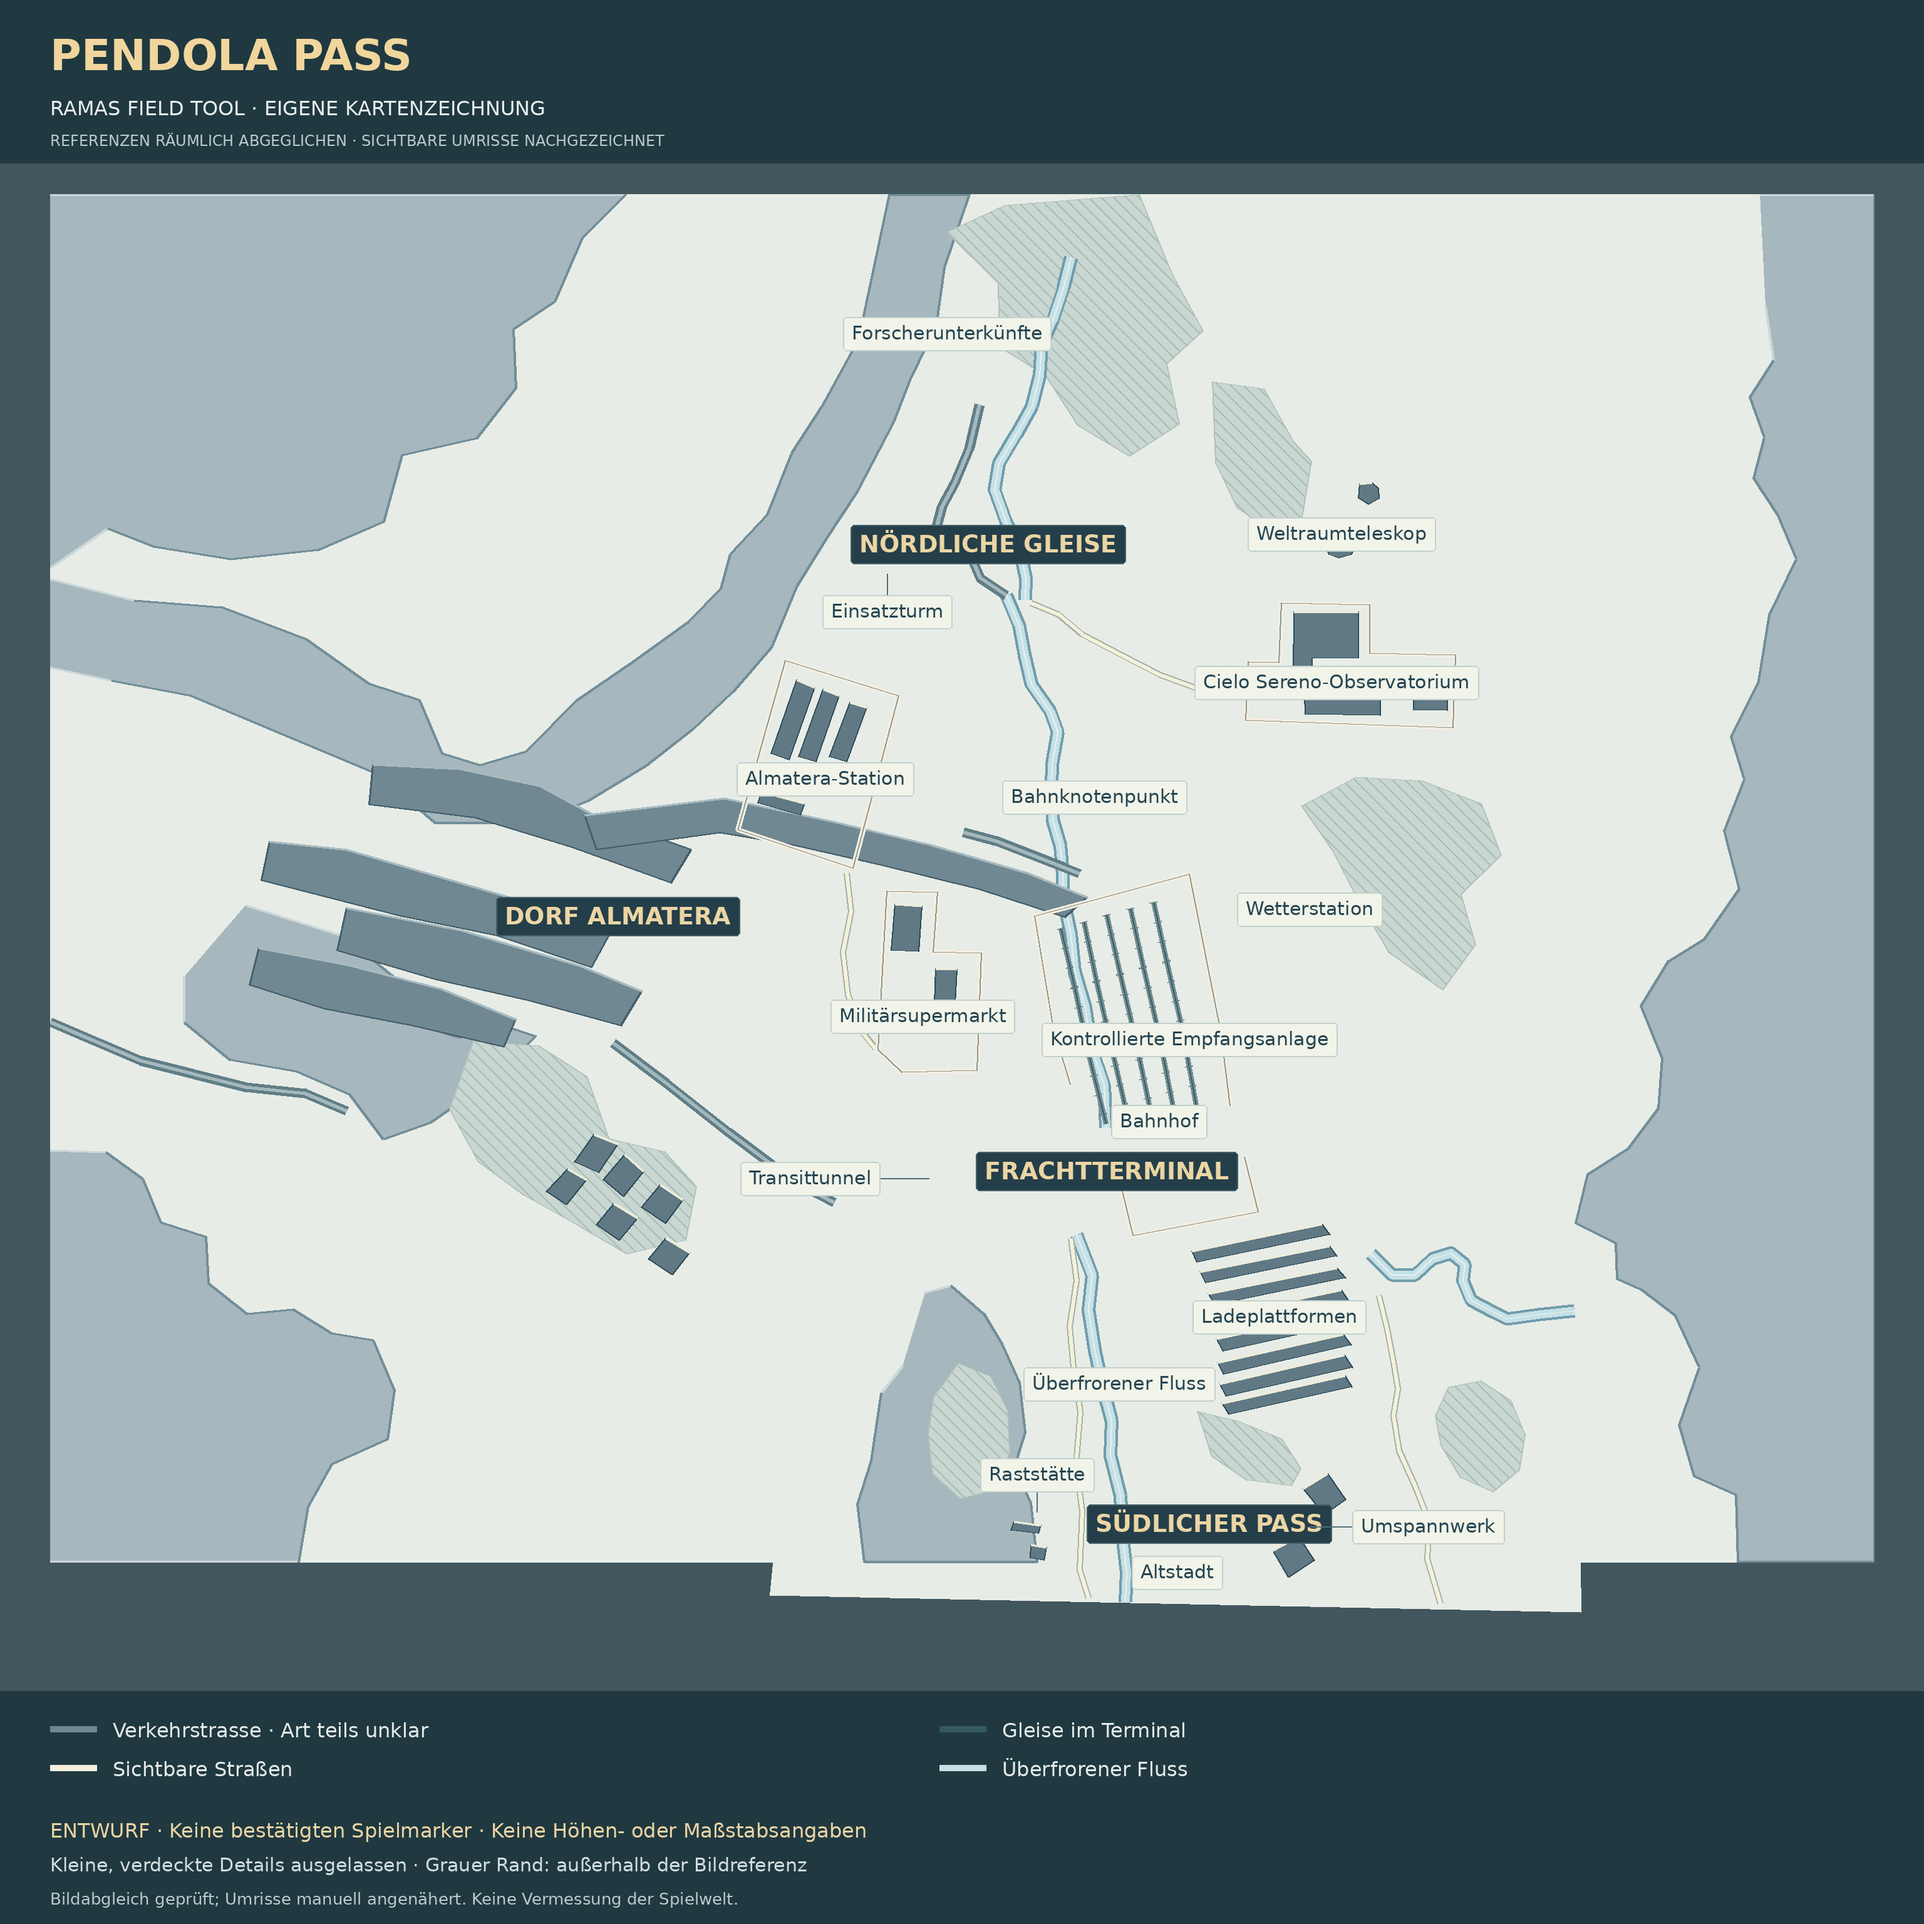
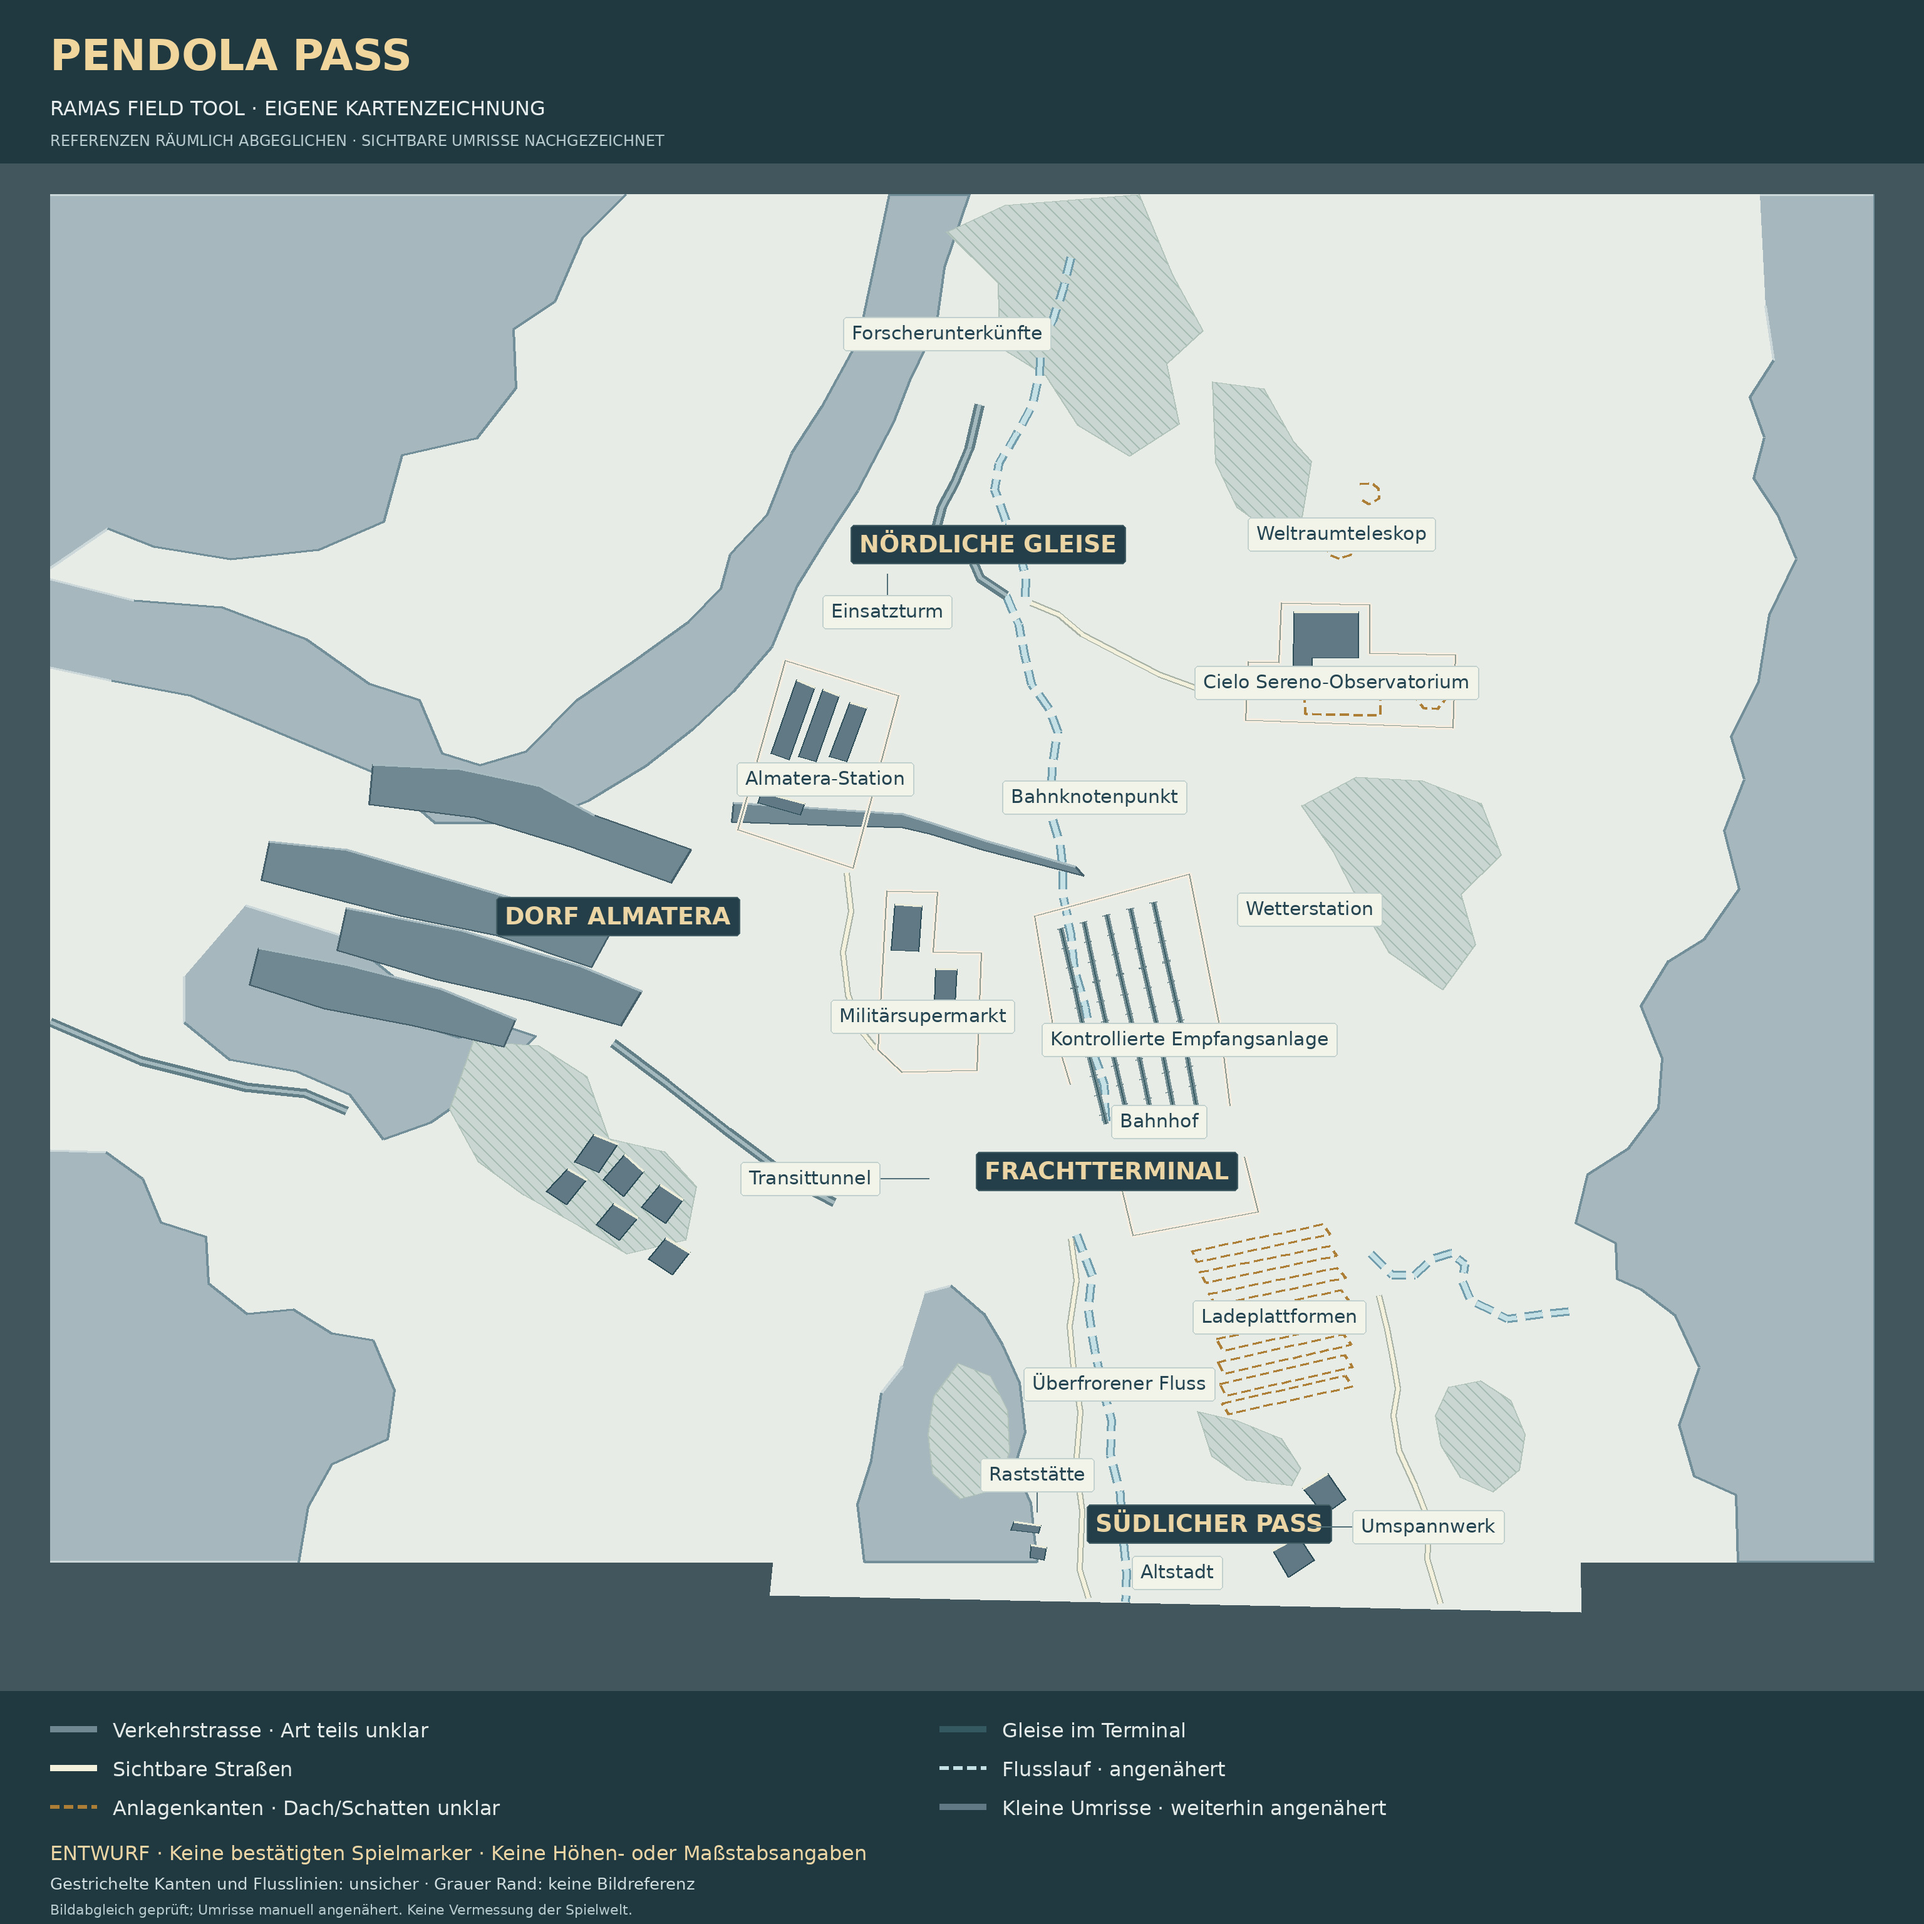
Audit Pendola bridge geometry and withdraw unverified roof classifications

diff --git a/scripts/render-pendola-pass.py b/scripts/render-pendola-pass.py
@@ -21,6 +21,15 @@ def project(frame,p):
 def screen(p):return ((OX+p[0]*SCALE)*S,(OY+p[1]*SCALE)*S)
 def points(frame,vertices):return [screen(project(frame,p)) for p in vertices]
 def path(p,color,width):d.line(p,fill=color,width=max(1,int(width*S)),joint='curve')
+def dashed(p,color,width=1.4,dash=9,gap=5):
+    phase=0.0;period=(dash+gap)*S
+    for a,b in zip(p,p[1:]):
+        dx,dy=b[0]-a[0],b[1]-a[1];length=math.hypot(dx,dy);offset=0.0
+        if length<1e-8:continue
+        while offset<length:
+            pos=phase%period;step=min(length-offset,(dash*S-pos) if pos<dash*S else (period-pos))
+            if pos<dash*S:path([(a[0]+dx*offset/length,a[1]+dy*offset/length),(a[0]+dx*(offset+step)/length,a[1]+dy*(offset+step)/length)],color,width)
+            offset+=step;phase+=step
 # Known image coverage, not an invented playable perimeter. The southern reference
 # reaches below the overview only in its central/eastern observed strip.
 coverage=Image.new('L',im.size);cd=ImageDraw.Draw(coverage)
@@ -42,7 +51,7 @@ for f in data['features']:
         if not(0<=x<=frame['imageSize'][0] and 0<=y<=frame['usableMaxY']):raise ValueError('Outside usable reference: '+f['id'])
 # Broad terrain/stands are area traces. Hatching is a drawing convention, not
 # individual tree/rock positions, altitude contours or additional game data.
-for kind in ['terrain','forest','water','transport-deck','transport-line','road','rail','compound','building']:
+for kind in ['terrain','forest','water','transport-deck','transport-line','road','rail','compound','building','structure-band','facility-outline']:
  for f in data['features']:
     if f['kind']!=kind:continue
     p=points(f['frame'],f['vertices'])
@@ -50,7 +59,7 @@ for kind in ['terrain','forest','water','transport-deck','transport-line','road'
         d.polygon(p,fill='#a6b7bd');path(p,'#cbd7d8',2);path(p[1:-1],'#718e99',2)
     elif kind=='forest':hatch_polygon(p,'#c9d6d1','#a7bdb4',10);path(p+[p[0]],'#b0c2b9',1)
     elif kind=='water':
-        path(p,'#719cab',11);path(p,'#c5e1e5',7);path(p,'#e7f2f0',1)
+        dashed(p,'#719cab',7,14,7);dashed(p,'#c5e1e5',4,14,7)
     elif kind=='transport-deck':
         d.polygon(p,fill='#708891');path(p+[p[0]],'#445f69',1.5);path(p[:max(2,len(p)//2)],'#a6bac0',2)
     elif kind=='transport-line':path(p,'#617e87',8);path(p,'#a3b9bd',3)
@@ -63,6 +72,8 @@ for kind in ['terrain','forest','water','transport-deck','transport-line','road'
                 q=j/length;x=a[0]+q*dx;y=a[1]+q*dy
                 path([(x-dy/length*3*S,y+dx/length*3*S),(x+dy/length*3*S,y-dx/length*3*S)],'#5e7980',1)
     elif kind=='compound':path(p,'#f5eee0',4);path(p,'#8b9990',1)
+    elif kind=='structure-band':dashed(p+[p[0]],'#ad7e35',2.2,7,4)
+    elif kind=='facility-outline':dashed(p,'#ad7e35',2.2,7,4)
     elif kind=='building':
         d.polygon(p,fill='#617984');path(p+[p[0]],'#2c4c58',1.2);path(p[:2],'#ececda',2)
 # Reapply coverage: nothing inferred outside the photographed reference extent.
@@ -104,13 +115,15 @@ d.text((40*S,24*S),'PENDOLA PASS',font=ImageFont.truetype(bold,34*S),fill='#f0d5
 d.text((40*S,77*S),'RAMAS FIELD TOOL · EIGENE KARTENZEICHNUNG',font=ImageFont.truetype(font,16*S),fill='#e8eeee')
 d.text((40*S,105*S),'REFERENZEN RÄUMLICH ABGEGLICHEN · SICHTBARE UMRISSE NACHGEZEICHNET',font=ImageFont.truetype(font,12*S),fill='#b9cccf')
 d.rectangle((0,1350*S,WIDTH*S,HEIGHT*S),fill='#203840')
-legend=[('Verkehrstrasse · Art teils unklar','#708891'),('Gleise im Terminal','#345961'),('Sichtbare Straßen','#f3f0db'),('Überfrorener Fluss','#c5e1e5')]
+legend=[('Verkehrstrasse · Art teils unklar','#708891'),('Gleise im Terminal','#345961'),('Sichtbare Straßen','#f3f0db'),('Flusslauf · angenähert','#c5e1e5'),('Anlagenkanten · Dach/Schatten unklar','#ad7e35'),('Kleine Umrisse · weiterhin angenähert','#617984')]
 for i,(t,c) in enumerate(legend):
     x=40+(i%2)*710;y=1372+(i//2)*31
-    d.line((x*S,(y+8)*S,(x+37)*S,(y+8)*S),fill=c,width=5*S)
+    sample=[(x*S,(y+8)*S),((x+37)*S,(y+8)*S)]
+    if t.startswith(('Flusslauf','Anlagenkanten')):dashed(sample,c,3,7,4)
+    else:d.line(sample,fill=c,width=5*S)
     d.text(((x+50)*S,y*S),t,font=ImageFont.truetype(font,16*S),fill='#e3eae7')
-d.text((40*S,1452*S),'ENTWURF · Keine bestätigten Spielmarker · Keine Höhen- oder Maßstabsangaben',font=ImageFont.truetype(font,16*S),fill='#ecd5a4')
-d.text((40*S,1480*S),'Kleine, verdeckte Details ausgelassen · Grauer Rand: außerhalb der Bildreferenz',font=ImageFont.truetype(font,15*S),fill='#d1dedf')
-d.text((40*S,1508*S),'Bildabgleich geprüft; Umrisse manuell angenähert. Keine Vermessung der Spielwelt.',font=ImageFont.truetype(font,13*S),fill='#b9cccf')
+d.text((40*S,1470*S),'ENTWURF · Keine bestätigten Spielmarker · Keine Höhen- oder Maßstabsangaben',font=ImageFont.truetype(font,16*S),fill='#ecd5a4')
+d.text((40*S,1496*S),'Gestrichelte Kanten und Flusslinien: unsicher · Grauer Rand: keine Bildreferenz',font=ImageFont.truetype(font,13*S),fill='#d1dedf')
+d.text((40*S,1518*S),'Bildabgleich geprüft; Umrisse manuell angenähert. Keine Vermessung der Spielwelt.',font=ImageFont.truetype(font,11*S),fill='#b9cccf')
 im.save(ROOT/'assets/maps/pendola-pass-rft-base.jpg',quality=94,subsampling=0)
 print(f"Rendered {len(data['features'])} traced features and {len(occupied)} non-overlapping labels; {im.size}.")

diff --git a/docs/pendola-pass-map-review.md b/docs/pendola-pass-map-review.md
@@ -4,7 +4,7 @@ Own 3072 × 3072 drawing, generated by `scripts/render-pendola-pass.py` with Pil
 
 ## What changed from the first draft
 
-The three zoom photographs were aligned to the overview with projective transforms, then visible structures were manually digitized in their original reference frame. The previous independently estimated rectangles/positions have been replaced by these transformed outlines. There are 70 traced features and 20 area/place labels (four main areas plus 16 additional names).
+The three zoom photographs were aligned to the overview with projective transforms, then visible structures were manually digitized in their original reference frame. The previous independently estimated rectangles/positions have been replaced by these transformed outlines. There are 69 traced features and 20 area/place labels (four main areas plus 16 additional names).
 
 The receiving/station perimeter, Almatera station, observatory, loading roofs, southern named areas and southwest building group now share the same measured image reference plane. Text collision handling moves labels only, with leader lines back to the registered displayed-name areas. Labels do not assert surveyed building centres.
 
@@ -30,13 +30,28 @@ The overview is a photograph of a game map and can retain perspective/lens disto
 
 Open work: hidden details, finer terrain relief and individual building details where photographs obscure them; independent geographic/gameplay review; real Android device review. This remains a draft. Precise gameplay-marker placement must not rely on these manual outlines without additional verification.
 
+## Targeted follow-up audit — 2026-10-12
+
+Compared road/channel/building traces in the native north, middle and south photographs by projecting the existing vectors back to those frames. No in-game inspection or physical Android test was performed.
+
+| Finding | Action | Remaining limit |
+| --- | --- | --- |
+| Central viaduct polygon extended below the visible deck into neighbouring ground | Replaced with an outline traced directly in the middle photograph | Edges remain manually approximated; road/rail type unresolved |
+| A second line represented the same central route | Removed duplicate `central-bridge-road` | No additional connection inferred |
+| Loading-platform dark bands cannot be reliably separated into roofs and cast shadows | Withdrew roof classification; amber dashed structural outlines | The bands do not establish precise roof footprints |
+| East observatory feature is rounded rather than a clear rectangular roof | Rounded uncertain facility outline replaces the filled rectangle | Facility/roof/pad type unverified |
+| Southern observatory band and telescope margins do not establish complete roofs | Dashed outlines; lower telescope uses only its visible open arc | Obscured closure remains omitted |
+| Channel centreline/width cannot be measured reliably from the photographs | Dashed approximate course with explicit legend | River course remains geographically unverified |
+
+Uncertain geometry is now marked directly in the drawing, not only in this report. The reference registration matrices/statistics are unchanged. The prior filled-roof interpretation for the affected features was too definite and has been withdrawn. No new gameplay markers were introduced.
+
 ## Integration and data safety
 
 `maps.json` adds only `pendola-pass`; its default and previous entries are preserved. `pendola-pass-spawns.json` points to the own drawing with a new image cache key. Spawn, weapon-case, loot and extraction arrays remain empty. The UI draft notice supports DE/EN/FR/ES/IT. Existing map assets, zoom/pan logic, inventory/progress and backup implementation are unchanged.
 
 ## Verification history
 
-The preceding UI/code revision passed the full GitHub quality gate #368, including desktop/Android-emulated Pendola controls, map switching, all five draft languages, existing application functions, backup/restore/migration and responsive layouts. That prior pass is **not** proof for this revised image/data revision.
+Previous revisions passed full GitHub quality gates #368 and #369, including desktop/Android-emulated Pendola controls, map switching, all five draft languages, existing application functions, backup/restore/migration and responsive layouts. That prior pass is **not** proof for this revised image/data revision.
 
 Current local checks: the renderer completed with all geometry vertices inside their usable source frames and 20 non-overlapping labels; generated drawing and registered trace overlays visually inspected; JSON/asset/cache/version integrity and whitespace checks passed. The final current-head browser/CI outcome is recorded in PR #144 after completion.
 
